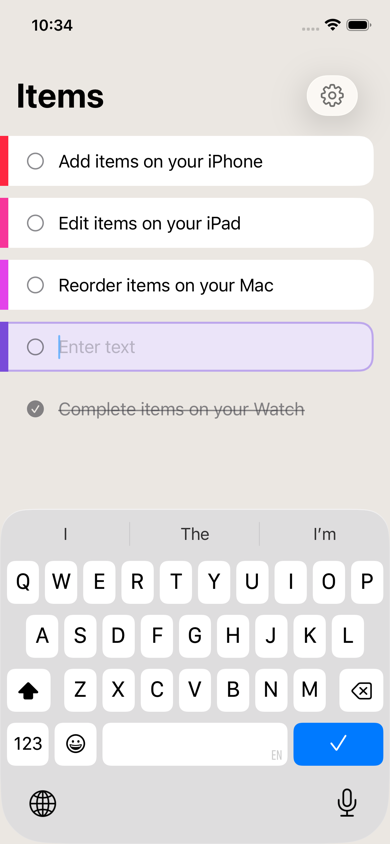
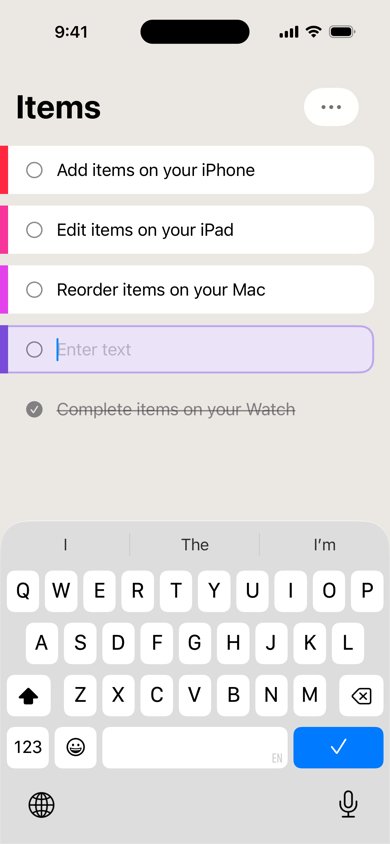
Use updated screenshot for Listless

diff --git a/public/listless/index.html b/public/listless/index.html
@@ -16,7 +16,7 @@
     <div class="container mt-20 mb-5 md:max-w-4xl md:mx-auto">
       <div class="grid grid-cols-2 items-center">
         <div class="text-right pr-10">
-          <img class="inline-block rounded-3xl" src="/assets/images/listless-logo@1x.png?ver=1" srcset="/assets/images/listless-logo@2x.png?ver=1 2x, /assets/images/listless-logo@3x.png?ver=1 3x" alt="Listless Logo" title="Listless" />
+          <img class="inline-block rounded-3xl" src="/assets/images/listless-logo@1x.png?ver=2" srcset="/assets/images/listless-logo@2x.png?ver=2 2x, /assets/images/listless-logo@3x.png?ver=2 3x" alt="Listless Logo" title="Listless" />
         </div>
         <div>
           <h1 class="mb-2 text-5xl text-white">
@@ -35,8 +35,7 @@
             <div class="h-8 w-0.5 rounded-l-sm bg-pink-500 absolute -left-0.5 top-40"></div>
             <div class="h-auto w-64 bg-pink-500 rounded-4xl p-1 overflow-hidden">
               <div class="h-full w-full bg-black rounded-3.5xl overflow-hidden p-2 relative">
-                <div class="w-28 h-6 bg-black absolute left-1/2 rounded-b-2xl transform -translate-x-1/2"></div>
-                  <img class="rounded-2.5xl" src="/assets/images/listless-screenshot@1x.png?ver=1" srcset="/assets/images/listless-screenshot@2x.png?ver=1 2x, /assets/images/listless-screenshot@3x.png?ver=1 3x" alt="App Screenshot" title="Listless on iPhone"/>
+                <img class="rounded-2.5xl" src="/assets/images/listless-screenshot@1x.png?ver=1" srcset="/assets/images/listless-screenshot@2x.png?ver=1 2x, /assets/images/listless-screenshot@3x.png?ver=1 3x" alt="App Screenshot" title="Listless on iPhone"/>
               </div>
             </div>
             <div class="h-14 w-0.5 rounded-l-sm bg-pink-500 absolute -right-0.5 top-32"></div>
